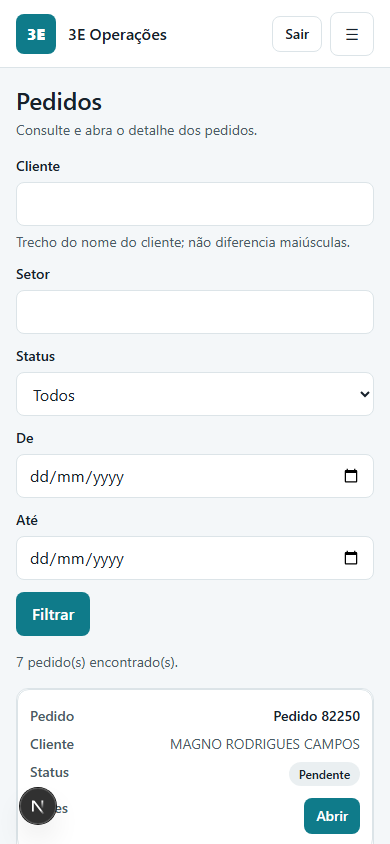
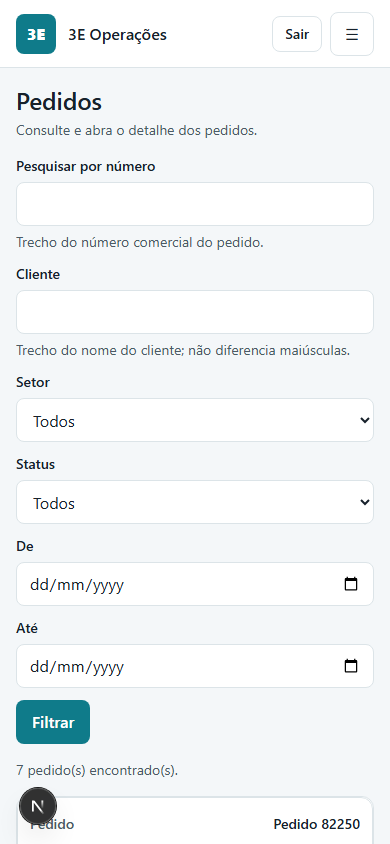
docs: registra validacao local e hospedada do PR #4
866 testes verdes (23 de integracao ignorados por design), Playwright 11/11 no local e em producao, deploy f64cc9a publicado no Railway.

diff --git a/docs/validacao-hospedada.md b/docs/validacao-hospedada.md
@@ -69,22 +69,21 @@ Não houve diferença de comportamento observada entre local e hospedado.
 
 ---
 
-## 5. Atualização 2026-10-22 — correções dos PRs #2 e #3
-
-Os PRs do Marcelo foram revisados, mergeados e validados **localmente**:
+## 5. Atualizações dos PRs #2, #3 e #4 (2026-10-22/23)
 
 | Item | Local | Hospedado |
 | --- | --- | --- |
-| PR #2 — correção de setor (`AD-006`/`AD-007`) | ✅ | ⏳ pendente |
-| PR #3 — totais por unidade (`AD-008`) | ✅ | ⏳ pendente |
-| Testes | **785** verdes | — |
+| PR #2 — correção de setor (`AD-006`/`AD-007`) | ✅ | ✅ |
+| PR #3 — totais por unidade (`AD-008`) | ✅ | ✅ |
+| PR #4 — consulta, filtros, paginação e prazos | ✅ | ✅ |
+| Testes | **866** verdes + 23 de integração ignorados (gated) | — |
 | Lint / typecheck / build | 0 erros / OK / OK | — |
-| Playwright (390 px, navegação, setor, totais, impressão) | **11/11** | — |
-| Impressão | 1 página | — |
+| Playwright (390 px, navegação, setor, totais, impressão) | **11/11** | **11/11** |
+| Impressão | 1 página | 1 página |
 
-**Pendência (atualizada em 2026-10-22):** com um token de projeto válido, o CLI autentica (consulta o serviço normalmente), mas o Railway responde **“Deploys have been paused temporarily”** ao tentar `railway up`/`redeploy`. Não é falha de código: o último deploy (`200dfb21`) está `SUCCESS` (20/10 20:51) e o app segue saudável (`/api/health` 200). É um bloqueio de conta/projeto (trial/uso ou pausa manual), que precisa ser resolvido no dashboard.
+**Deploy concluído em 2026-10-23:** o bloqueio “Deploys have been paused temporarily” foi resolvido no projeto e o `railway up` publicou o commit `f64cc9a`. A validação Playwright em produção passou **11/11** e `/api/health` responde `200`.
 
-**Para publicar as correções:** no dashboard do projeto `reliable-enchantment` → serviço `3e-operacoes`, verificar o aviso de trial/uso e **despausar os deploys** (ou adicionar forma de pagamento/upgrade). Depois rodar `railway up -p <PROJECT_ID> -s 3e-operacoes -e <ENV_ID> -c` e a validação com `PLAYWRIGHT_BASE_URL=https://3e-operacoes-production.up.railway.app node scripts/validar-responsivo-impressao.mjs`.
+> Os testes de integração (`*.integration.test.ts`) só rodam com `RUN_INTEGRATION_TESTS=1` e um banco com `test`/`integration` no nome. No ambiente atual ficam **ignorados de propósito**, sem tocar o banco do app.
 
 ## 6. Próximos passos para go-live
 
